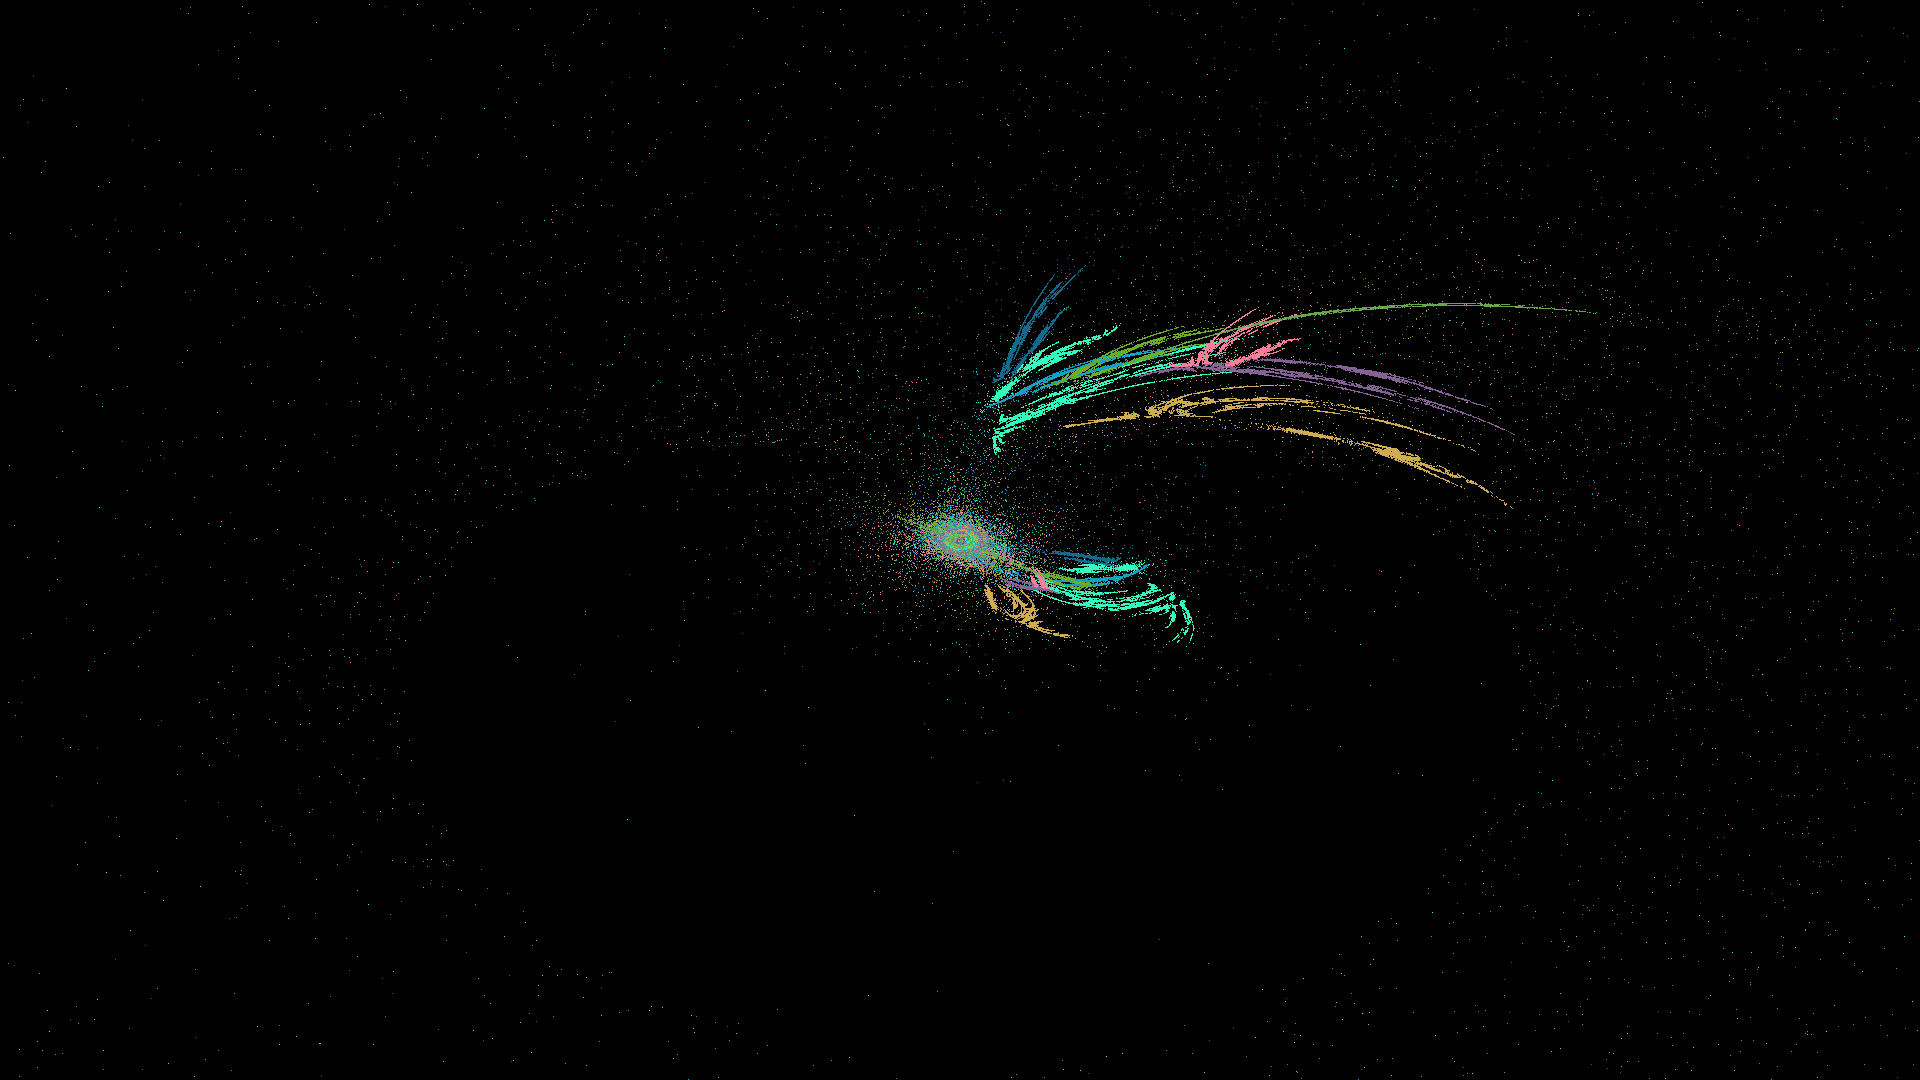
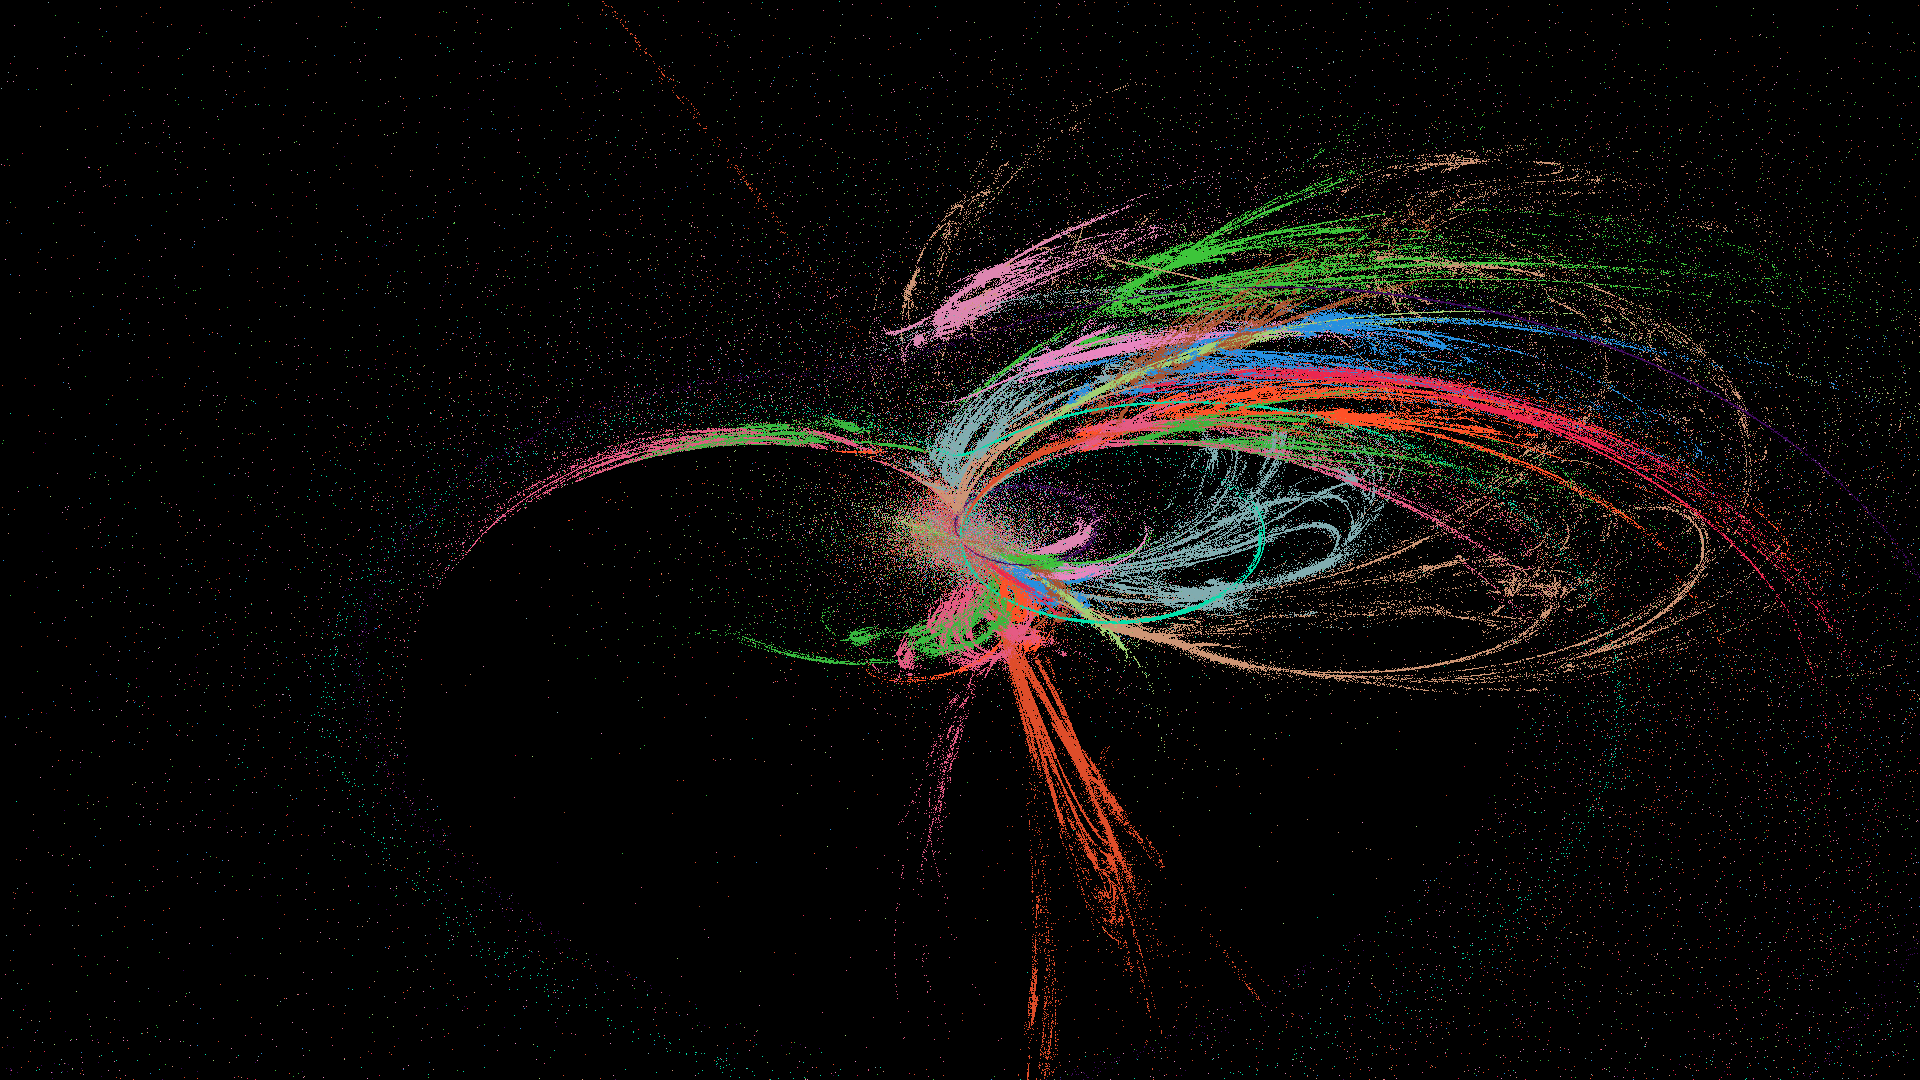
project4

diff --git a/src/main/java/edu/project4/FractalRenderer.java b/src/main/java/edu/project4/FractalRenderer.java
@@ -25,25 +25,26 @@ public class FractalRenderer {
         int height = 1080;
         Fractal.FractalImage fractalImage = Fractal.FractalImage.create(width, height);
 
-        List<Transformation> affineTransformation = getAffineTransformation(8);
+        List<Transformation> affineTransformation = getAffineTransformation(20);
         List<Transformation> nonLinearTransformation = new ArrayList<>();
-        //affineTransformation.add(new LinearTransformation(0.5, 0, 0, 0.5, 0.8, 1));  // Линейное преобразование
-        //affineTransformation.add(new LinearTransformation(0, 0.9, 0, 0.5, 0, 0));  // Линейное преобразование
         // Синусоидальное преобразование
-        nonLinearTransformation.add(new SineTransformation((double) 1920 / 2, (double) 1080 / 2));
-        nonLinearTransformation.add(new SphericalTransformation(0.1));  // Сферическое преобразование
-        nonLinearTransformation.add(new DiskTransformation(0.05));  // Диск преобразование
-        nonLinearTransformation.add(new HeartTransformation(0.5));  // Сердце преобразование
+//        nonLinearTransformation.add(new SineTransformation((double) 3, (double) 2));
+//        nonLinearTransformation.add(new SineTransformation((double) 1, (double) 0));
+//        nonLinearTransformation.add(new SineTransformation((double) 3, (double) 1));
+        //nonLinearTransformation.add(new SphericalTransformation(0.9));  // Сферическое преобразование
+        //nonLinearTransformation.add(new DiskTransformation(0.05));  // Диск преобразование
+        nonLinearTransformation.add(new HeartTransformation(0.6));  // Сердце преобразование
+        //nonLinearTransformation.add(new SwirlTransformation(1, 1));  // Swirl преобразование
+        nonLinearTransformation.add(new HorseshoeTransformation(0.9));  // Horseshoe преобразование
         int samples = 100000;
         int iterPerSample = 200;
-        long seed = System.currentTimeMillis();
 
         FractalImage renderedImage = Renderer.render(fractalImage, affineTransformation, nonLinearTransformation,
-            samples, iterPerSample, seed);
+            samples, iterPerSample);
 
         BufferedImage bufferedImage = createBufferedImage(renderedImage);
         saveImage(bufferedImage,
-            "/Users/daniltarasov/backend-java/backend-java/src/main/java/edu/project4/pictures/fractal_image_8.png");
+            "/Users/daniltarasov/backend-java/backend-java/src/main/java/edu/project4/pictures/fractal_image_9.png");
     }
 
     @SuppressWarnings("MagicNumber")

diff --git a/src/main/java/edu/project4/HorseshoeTransformation.java b/src/main/java/edu/project4/HorseshoeTransformation.java
@@ -2,48 +2,39 @@ package edu.project4;
 
 import java.util.Random;
 
-class LinearTransformation implements Fractal.Transformation {
-    private final double a;
-    private final double b;
-    private final double c;
-    private final double d;
-    private final double e;
-    private final double f;
-
+public class HorseshoeTransformation implements Fractal.Transformation {
+    private final double scale;
 
     private final Random random = new Random();
     private final int red = random.nextInt(256);
     private final int green = random.nextInt(256);
     private final int blue = random.nextInt(256);
 
-
-    LinearTransformation(double a, double b, double c, double d, double e, double f) {
-        this.a = a;
-        this.b = b;
-        this.c = c;
-        this.d = d;
-        this.e = e;
-        this.f = f;
+    public HorseshoeTransformation(double scale) {
+        this.scale = scale;
     }
 
     @Override
     public Point apply(Point p) {
-        double x = a * p.x + b * p.y + c;
-        double y = d * p.x + e * p.y + f;
+        double r = Math.sqrt(p.x * p.x + p.y * p.y);
+        double x = scale * ((p.x - p.y) * (p.x + p.y)) / r;
+        double y = scale * 2 * p.x * p.y / r;
+
         return new Point(x, y, red, green, blue);
     }
 
-
+    @Override
     public int getRed() {
         return red;
     }
 
+    @Override
     public int getGreen() {
         return green;
     }
 
+    @Override
     public int getBlue() {
         return blue;
     }
-
 }

diff --git a/src/main/java/edu/project4/SwirlTransformation.java b/src/main/java/edu/project4/SwirlTransformation.java
@@ -2,48 +2,41 @@ package edu.project4;
 
 import java.util.Random;
 
-class LinearTransformation implements Fractal.Transformation {
+public class SwirlTransformation implements Fractal.Transformation {
     private final double a;
     private final double b;
-    private final double c;
-    private final double d;
-    private final double e;
-    private final double f;
-
 
     private final Random random = new Random();
     private final int red = random.nextInt(256);
     private final int green = random.nextInt(256);
     private final int blue = random.nextInt(256);
 
-
-    LinearTransformation(double a, double b, double c, double d, double e, double f) {
+    public SwirlTransformation(double a, double b) {
         this.a = a;
         this.b = b;
-        this.c = c;
-        this.d = d;
-        this.e = e;
-        this.f = f;
     }
 
     @Override
     public Point apply(Point p) {
-        double x = a * p.x + b * p.y + c;
-        double y = d * p.x + e * p.y + f;
+        double r = p.x * p.x + p.y * p.y;
+        double x = a * p.x * Math.sin(r) - b * p.y * Math.cos(r);
+        double y = a * p.x * Math.cos(r) + b * p.y * Math.sin(r);
+
         return new Point(x, y, red, green, blue);
     }
 
-
+    @Override
     public int getRed() {
         return red;
     }
 
+    @Override
     public int getGreen() {
         return green;
     }
 
+    @Override
     public int getBlue() {
         return blue;
     }
-
 }

diff --git a/src/main/java/edu/project4/Renderer.java b/src/main/java/edu/project4/Renderer.java
@@ -20,11 +20,8 @@ public class Renderer {
         List<Fractal.Transformation> affineTransformations,
         List<Fractal.Transformation> nonLinearTransformations,
         int samples,
-        int iterPerSample,
-        long seed
+        int iterPerSample
     ) {
-        double symmetry = 2.0;
-
 
         for (int num = 0; num < samples; ++num) {
             Point pw = randomPoint();

diff --git a/src/main/java/edu/project4/Point.java b/src/main/java/edu/project4/Point.java
@@ -14,6 +14,13 @@ public class Point {
         this.green = green;
         this.blue = blue;
     }
+    public Point(double x, double y) {
+        this.x = x;
+        this.y = y;
+        this.red = 0;
+        this.green = 0;
+        this.blue = 0;
+    }
 
     public double[] getPoint() {
         return new double[]{x, y};
